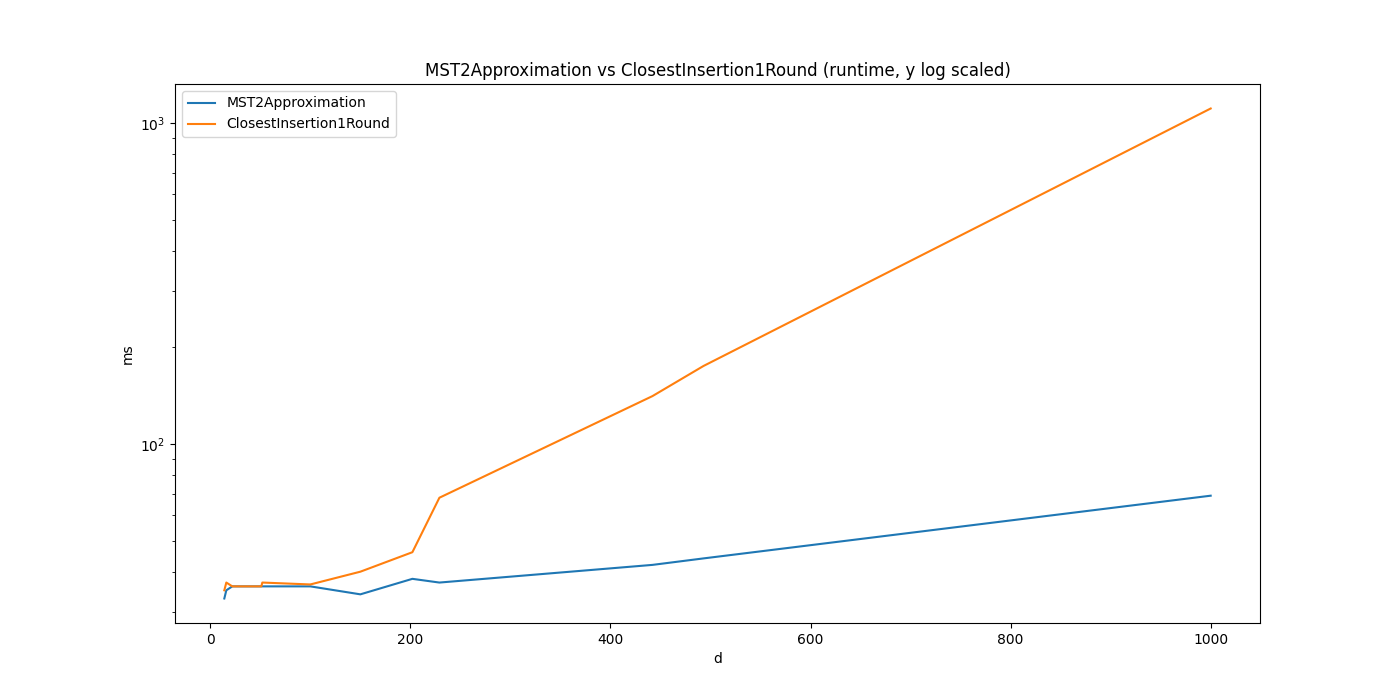
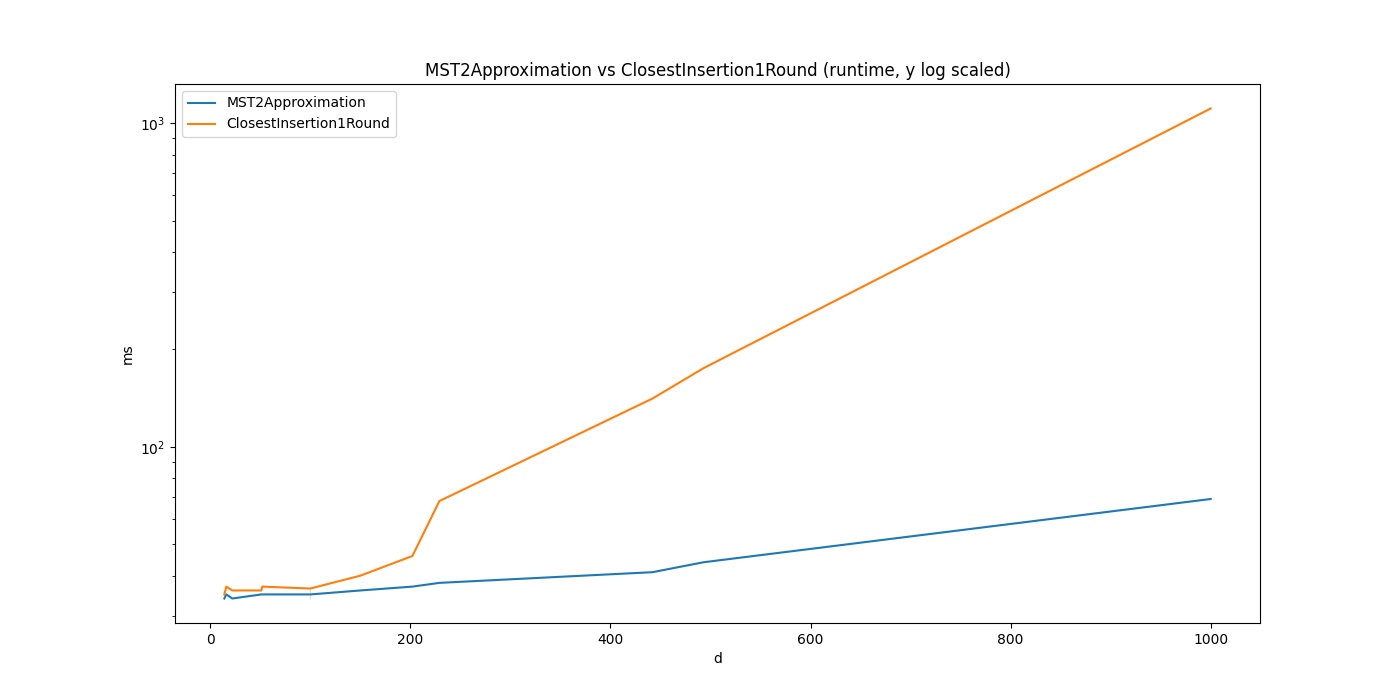
Updated mst charts from new benchmarks

diff --git a/report/chapters/6-performance-analysis.tex b/report/chapters/6-performance-analysis.tex
@@ -61,17 +61,17 @@ una per algoritmo.
     \hline
     Instance & Exact & Solution &   Time (ms) &   Error (\%) \\
     \hline
-    burma14.tsp   &     3323 &   4258           &          33 &       28.14 \\
+    burma14.tsp   &     3323 &   4258           &          34 &       28.14 \\
     ulysses16.tsp &     6859 &   7857           &          35 &       14.55 \\
-    ulysses22.tsp &     7013 &   8377           &          36 &       19.45 \\
-    eil51.tsp     &      426 &    563           &          36 &       32.16 \\
-    berlin52.tsp  &     7542 &  10402           &          36 &       37.92 \\
+    ulysses22.tsp &     7013 &   8377           &          34 &       19.45 \\
+    eil51.tsp     &      426 &    563           &          35 &       32.16 \\
+    berlin52.tsp  &     7542 &  10402           &          35 &       37.92 \\
     kroA100.tsp   &    21282 &  30032           &          36 &       41.11 \\
-    kroD100.tsp   &    21294 &  28467           &          36 &       33.69 \\
-    ch150.tsp     &     6528 &   9116           &          34 &       39.64 \\
-    gr202.tsp     &    40160 &  52967           &          38 &       31.89 \\
-    gr229.tsp     &   134602 & 178434           &          37 &       32.56 \\
-    pcb442.tsp    &    50778 &  74254           &          42 &       46.23 \\
+    kroD100.tsp   &    21294 &  28467           &          34 &       33.69 \\
+    ch150.tsp     &     6528 &   9116           &          36 &       39.64 \\
+    gr202.tsp     &    40160 &  52967           &          37 &       31.89 \\
+    gr229.tsp     &   134602 & 178434           &          38 &       32.56 \\
+    pcb442.tsp    &    50778 &  74254           &          41 &       46.23 \\
     d493.tsp      &    35002 &  45669           &          44 &       30.48 \\
     dsj1000.tsp   & 18659688 &      2.57036e+07 &          69 &       37.75 \\
     \bottomrule
